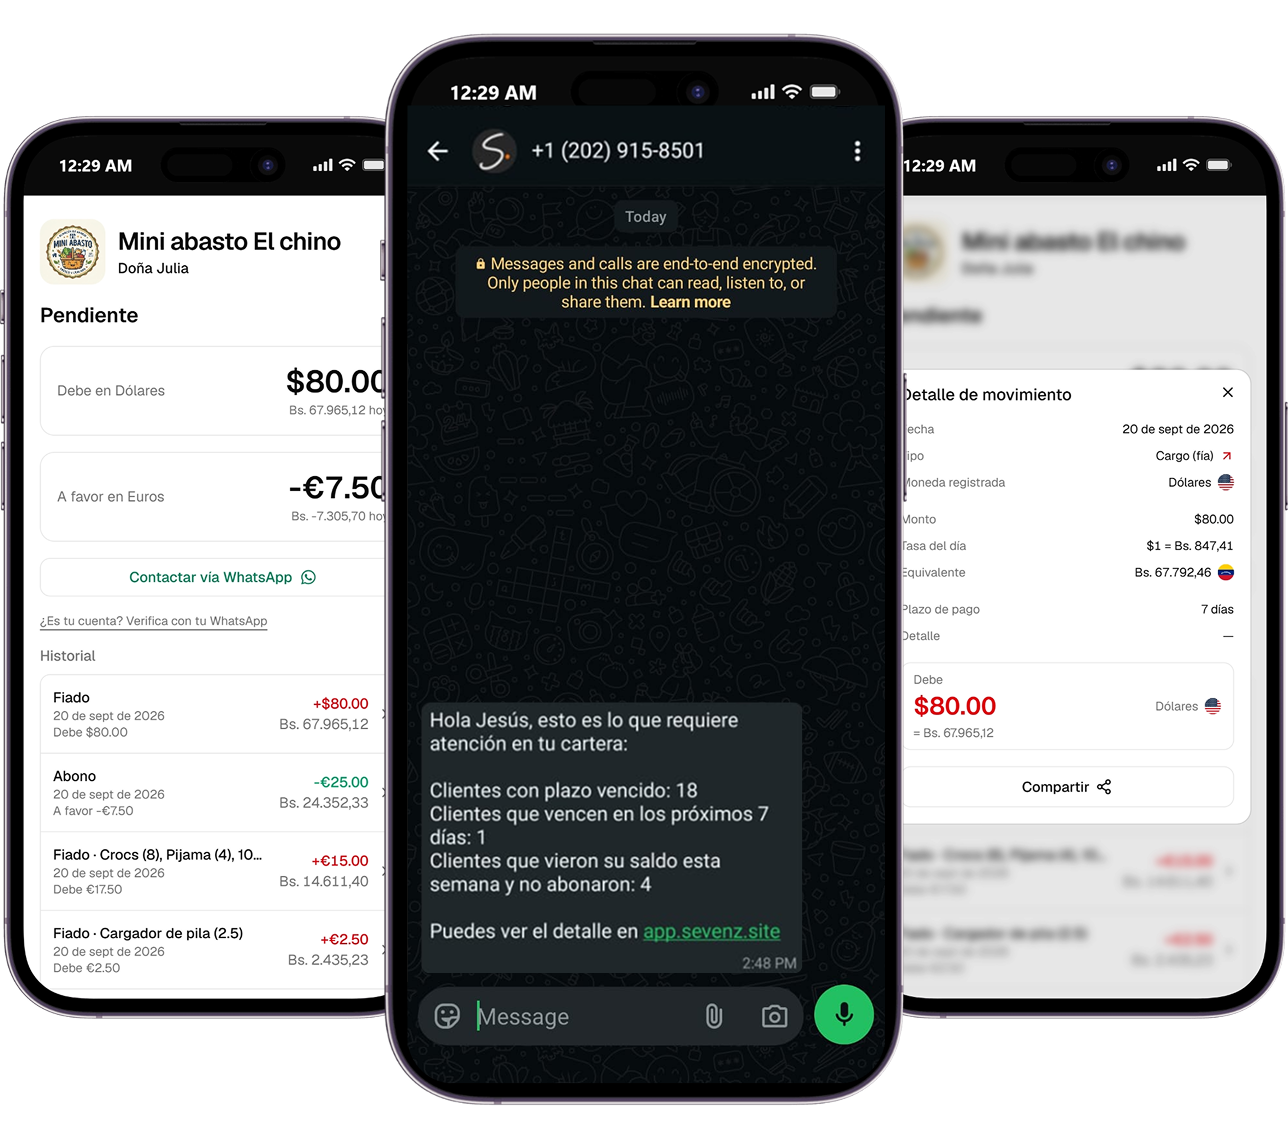
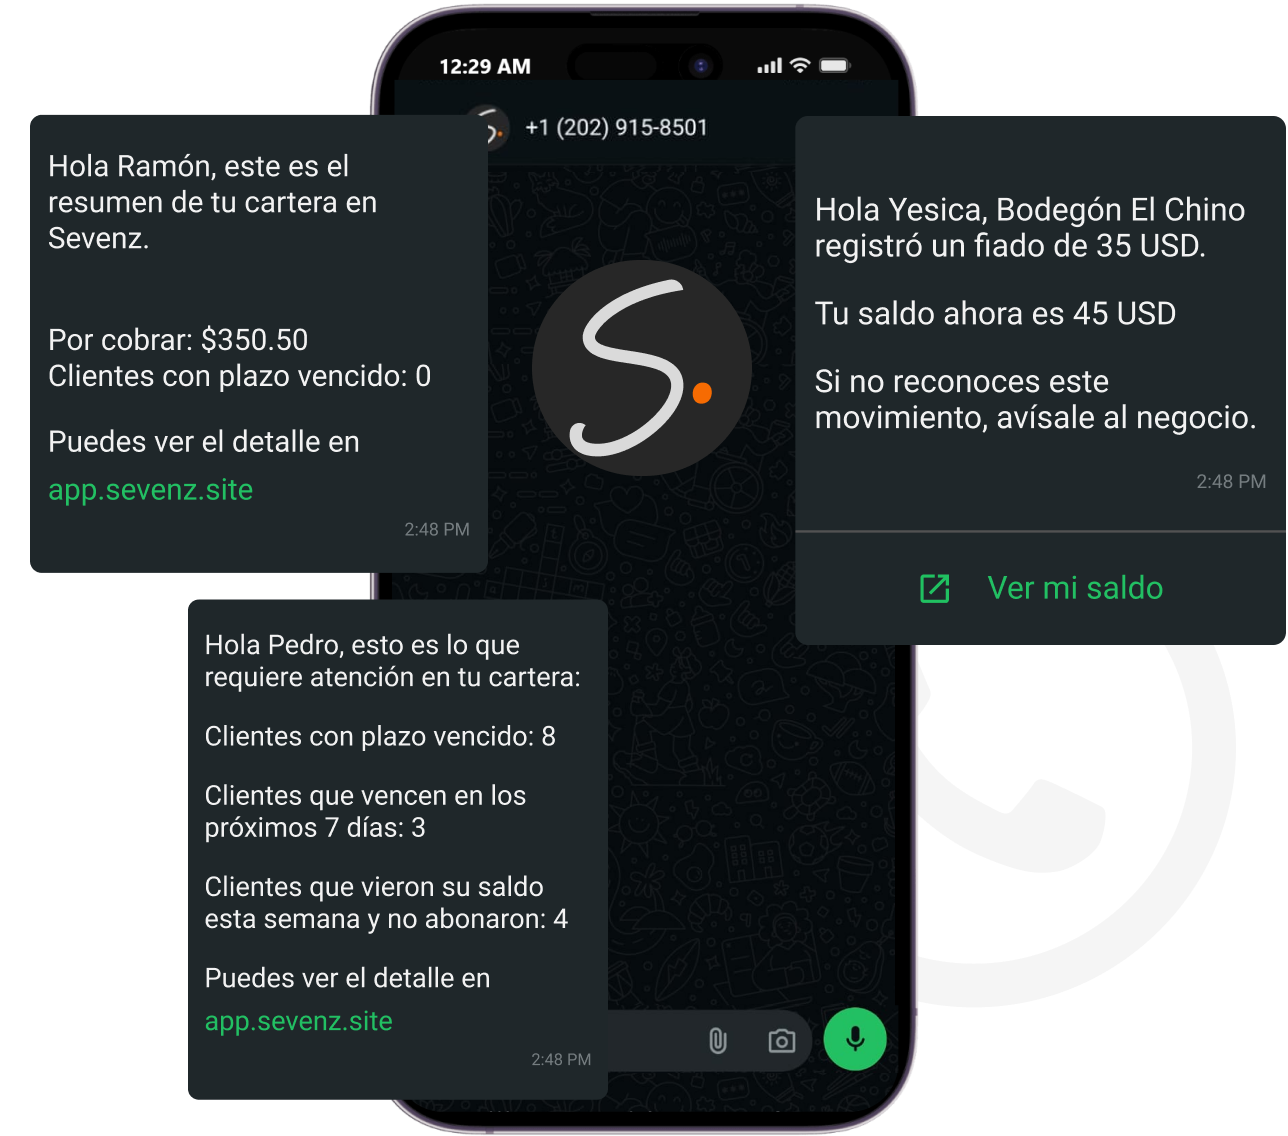
Captura nueva de las notificaciones: los tres mensajes, no uno
La anterior ensenaba un solo globo de WhatsApp; esta ensena los tres —el
resumen semanal, el de atencion, y uno dirigido al cliente— y pesa la
mitad (352 KB frente a 674), mismas dimensiones.

El alt se reescribio con ella. Un texto alternativo que describe una
imagen que ya no esta es peor que no tener ninguno: quien lo lee no puede
saber que esta viendo otra cosa, y el anterior hablaba solo del resumen
del dueno.

Queda anotado en el propio componente que el tercer globo va dirigido a
un CLIENTE, o sea MS-3, que sigue bloqueada. La imagen ensena algo que la
app todavia no hace. Esta cubierto por la decision registrada en CT-15 y
se escribe ahi para que nadie lo lea como un descuido.

diff --git a/components/landing/value.tsx b/components/landing/value.tsx
@@ -16,9 +16,19 @@ export function Value() {
           lead="Sevenz automatiza el envío de notificaciones de abonos, fiados, fechas de pago y cobro a través de WhatsApp, así como reportes de cartera, análisis y recomendaciones inteligentes."
         />
 
+        {/* Captura nueva del 2026-09-24. La anterior enseñaba un solo mensaje;
+            esta enseña los tres, y el `alt` se reescribió con ella — un texto
+            alternativo que describe una imagen que ya no está es peor que no
+            tener ninguno, porque quien lo lee no puede saber que está viendo
+            otra cosa.
+
+            OJO: el tercer globo va dirigido a un CLIENTE, no al dueño. Eso es
+            `MS-3`, que sigue bloqueada, así que la imagen enseña algo que la
+            app todavía no hace — está cubierto por la decisión registrada en
+            `CT-15` y se anota aquí para que nadie lo lea como un descuido. */}
         <Image
           src="/screens/sevenz-notificacion-whatsapp.png"
-          alt="Un mensaje de WhatsApp de Sevenz con el resumen de la cartera: clientes con plazo vencido, los que vencen esta semana y los que vieron su saldo y no abonaron"
+          alt="Tres mensajes de WhatsApp de Sevenz sobre la pantalla de un teléfono: el resumen semanal de la cartera con lo que hay por cobrar, el aviso de lo que requiere atención con los clientes vencidos y los que vieron su saldo sin abonar, y un aviso a un cliente de que su negocio le registró un fiado, con un botón para ver su saldo"
           width={1288}
           height={1136}
           sizes="(min-width: 1024px) 480px, 100vw"
